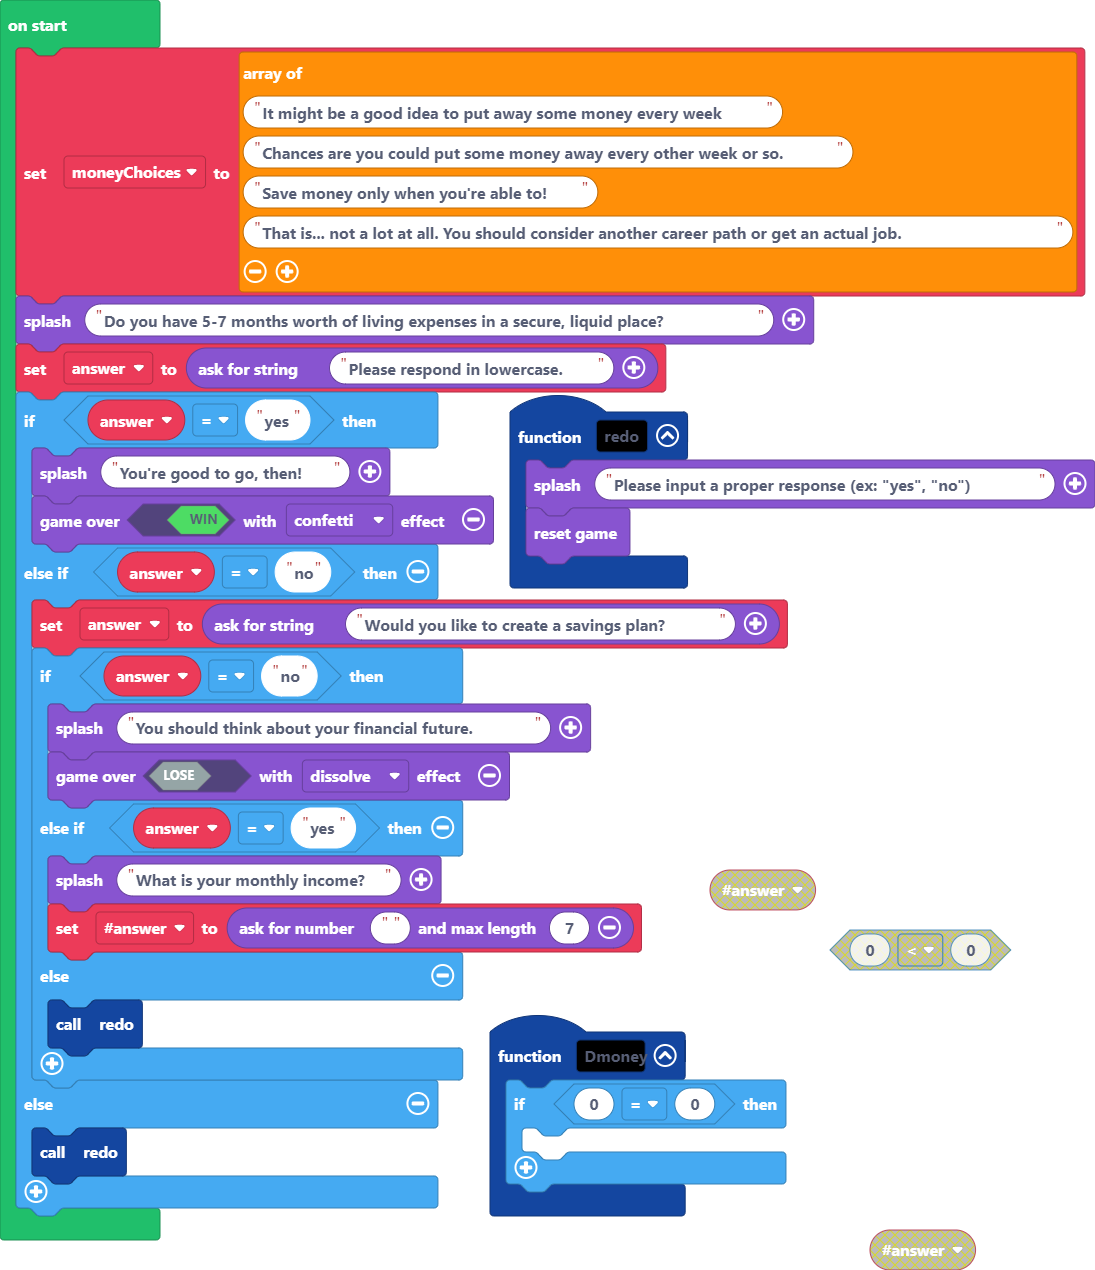
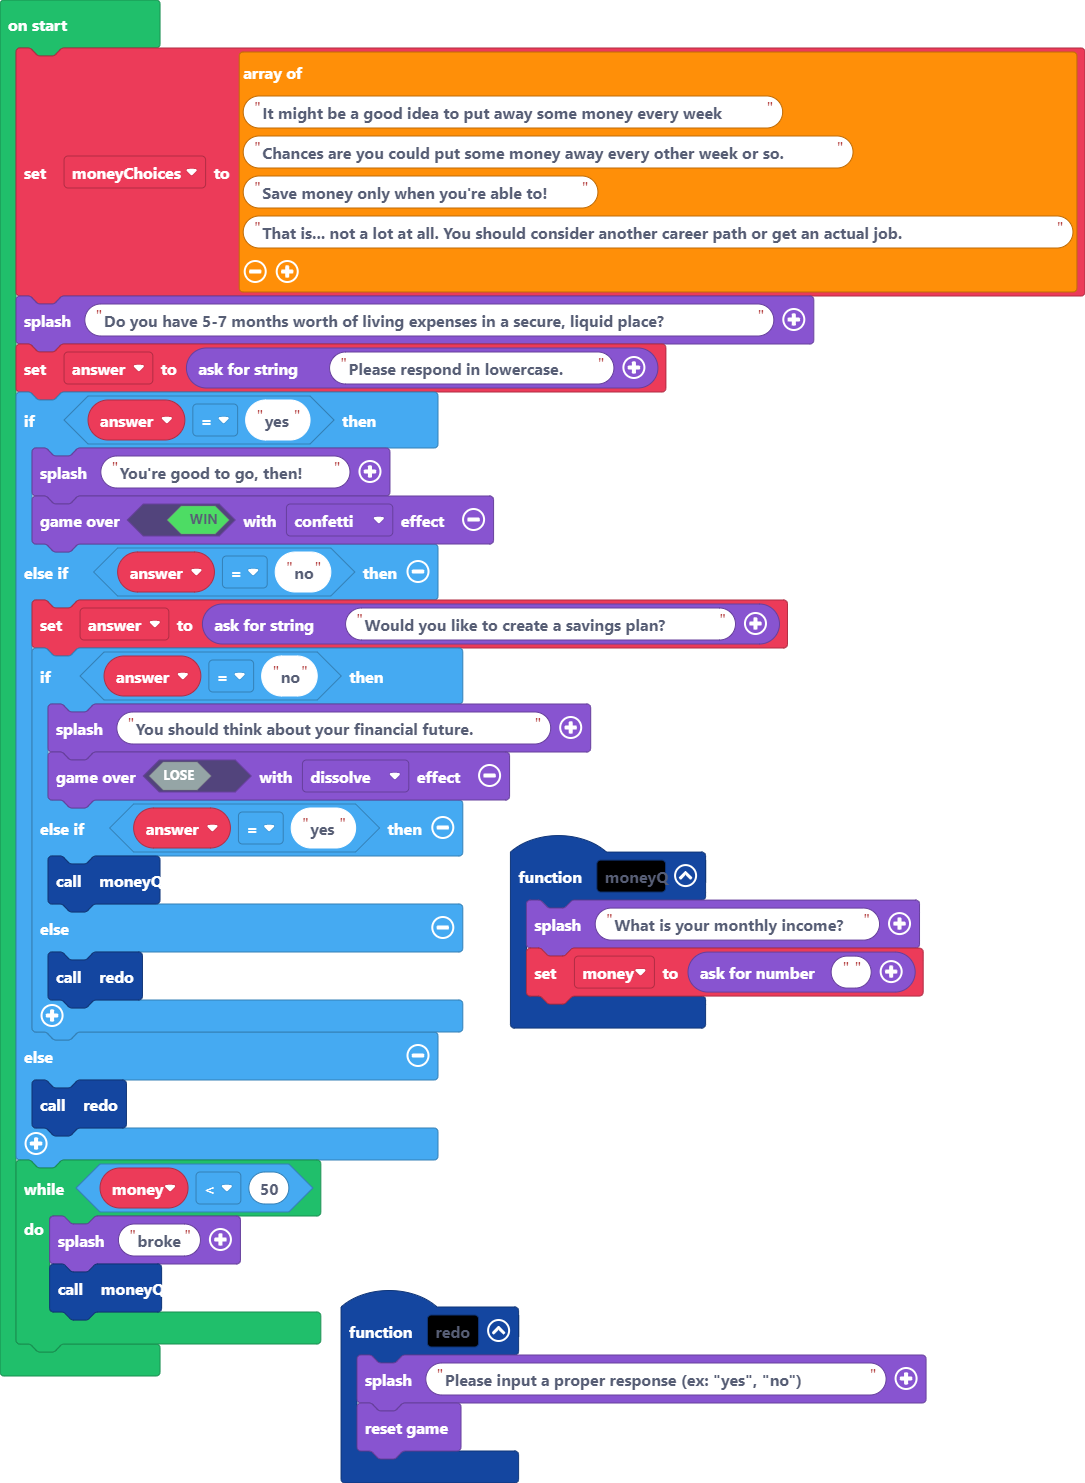
Update pxt.json, main.blocks, main.ts

diff --git a/main.ts b/main.ts
@@ -1,13 +1,12 @@
-function Dmoney () {
-    if (0 == 0) {
-    	
-    }
-}
 function redo () {
     game.splash("Please input a proper response (ex: \"yes\", \"no\")")
     game.reset()
 }
-let answer2 = 0
+function moneyQ () {
+    game.splash("What is your monthly income?")
+    money = game.askForNumber("")
+}
+let money = 0
 let moneyChoices = [
 "It might be a good idea to put away some money every week",
 "Chances are you could put some money away every other week or so.",
@@ -25,11 +24,14 @@ if (answer == "yes") {
         game.splash("You should think about your financial future.")
         game.over(false, effects.dissolve)
     } else if (answer == "yes") {
-        game.splash("What is your monthly income?")
-        answer2 = game.askForNumber("", 7)
+        moneyQ()
     } else {
         redo()
     }
 } else {
     redo()
+}
+while (money < 50) {
+    game.splash("broke")
+    moneyQ()
 }
